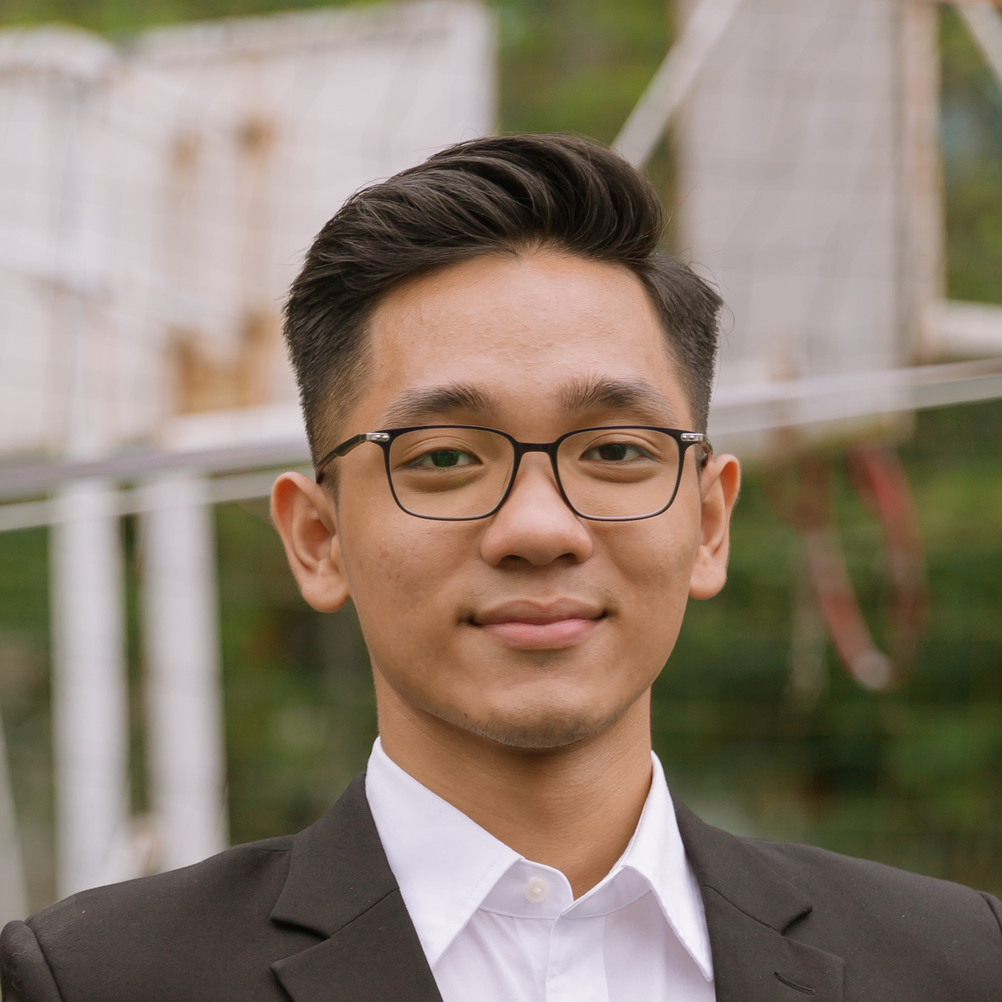
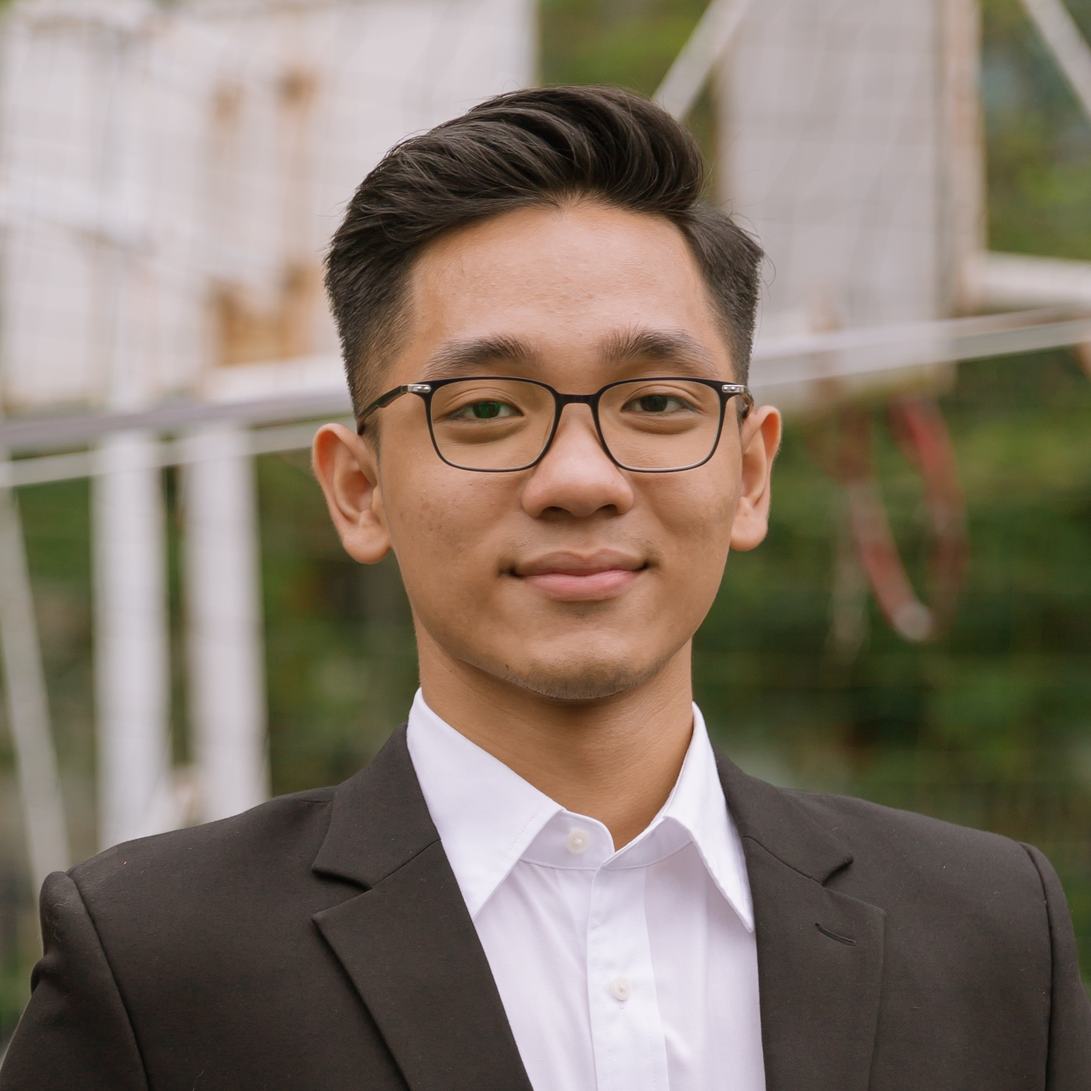
Major update for About section

diff --git a/portfolio-react/src/components/Hero.jsx b/portfolio-react/src/components/Hero.jsx
@@ -5,95 +5,161 @@ const SOCIAL_ICONS = {
   linkedin: FaLinkedin,
 }
 
+function Tagline({ text }) {
+  const parts = text.split(/\s*·\s*/)
+  return (
+    <>
+      {parts.map((part, i) => (
+        <span key={`${i}-${part}`}>
+          {i > 0 ? (
+            <span className="mx-1.5 text-cyan-400" aria-hidden>
+              ·
+            </span>
+          ) : null}
+          <span>{part}</span>
+        </span>
+      ))}
+    </>
+  )
+}
+
+/** `**like this**` → emphasized spans; outside stays muted. */
+function RichBioLine({ text, emphasisClass }) {
+  const parts = text.split(/(\*\*[^*]+\*\*)/g)
+  return parts.map((part, i) => {
+    if (part.startsWith('**') && part.endsWith('**')) {
+      const inner = part.slice(2, -2)
+      return (
+        <strong key={i} className={`font-semibold ${emphasisClass}`}>
+          {inner}
+        </strong>
+      )
+    }
+    return (
+      <span key={i} className="text-slate-400">
+        {part}
+      </span>
+    )
+  })
+}
+
 export function Hero({ data }) {
   return (
-    <section id="main" className="relative flex min-h-screen items-center justify-center py-32 overflow-hidden">
+    <section
+      id="main"
+      className="relative flex min-h-screen items-center overflow-hidden py-28 sm:py-32"
+    >
+      {/* Subtle cyan grid */}
+      <div
+        className="pointer-events-none absolute inset-0 opacity-[0.4]"
+        aria-hidden
+        style={{
+          backgroundImage: `
+            linear-gradient(rgba(34, 211, 238, 0.07) 1px, transparent 1px),
+            linear-gradient(90deg, rgba(34, 211, 238, 0.07) 1px, transparent 1px)
+          `,
+          backgroundSize: '48px 48px',
+        }}
+      />
 
-      {/* ── Floating background ── */}
+      {/* Soft orbs (cyan / teal — site theme) */}
       <div className="pointer-events-none absolute inset-0">
-        {/* Gradient orbs */}
         <div
-          className="absolute -left-32 -top-32 h-[420px] w-[420px] rounded-full bg-cyan-600/20 blur-3xl animate-float-orb"
-          style={{ animationDuration: '11s' }}
+          className="absolute -left-32 -top-32 h-[380px] w-[380px] rounded-full bg-cyan-500/15 blur-3xl animate-float-orb"
+          style={{ animationDuration: '12s' }}
         />
         <div
-          className="absolute -bottom-24 -right-24 h-[380px] w-[380px] rounded-full bg-teal-600/20 blur-3xl animate-float-orb"
-          style={{ animationDuration: '14s', animationDelay: '3s' }}
+          className="absolute -bottom-32 -right-24 h-[360px] w-[360px] rounded-full bg-teal-600/12 blur-3xl animate-float-orb"
+          style={{ animationDuration: '15s', animationDelay: '2s' }}
         />
-        <div
-          className="absolute left-1/2 top-1/3 h-[280px] w-[280px] -translate-x-1/2 rounded-full bg-cyan-700/15 blur-3xl animate-float-orb"
-          style={{ animationDuration: '9s', animationDelay: '1.5s' }}
-        />
-
-        {/* Floating dots */}
-        {[
-          { top: '12%',  left: '8%',  size: 3, dur: '5s',   delay: '0s'   },
-          { top: '25%',  left: '80%', size: 4, dur: '7s',   delay: '1.2s' },
-          { top: '60%',  left: '15%', size: 2, dur: '6s',   delay: '0.6s' },
-          { top: '75%',  left: '70%', size: 3, dur: '8s',   delay: '2s'   },
-          { top: '45%',  left: '88%', size: 2, dur: '5.5s', delay: '0.3s' },
-          { top: '85%',  left: '35%', size: 4, dur: '7.5s', delay: '1.8s' },
-          { top: '18%',  left: '55%', size: 2, dur: '6.5s', delay: '0.9s' },
-          { top: '55%',  left: '45%', size: 3, dur: '9s',   delay: '2.4s' },
-        ].map((dot, i) => (
-          <div
-            key={i}
-            className="absolute rounded-full bg-cyan-300/40 animate-float-dot"
-            style={{
-              top: dot.top,
-              left: dot.left,
-              width: dot.size,
-              height: dot.size,
-              animationDuration: dot.dur,
-              animationDelay: dot.delay,
-            }}
-          />
-        ))}
       </div>
-      <div className="relative z-10 flex flex-col items-center gap-8 px-4 text-center">
-        <div className="h-40 w-40 overflow-hidden rounded-full border-4 border-cyan-400/40 shadow-2xl shadow-cyan-900/30">
-          <img src={data.photoUrl} alt={data.name} className="h-full w-full object-cover" />
-        </div>
 
-        <div>
-          <h1 className="text-4xl font-bold leading-tight text-white sm:text-5xl">
-            {data.title}
-          </h1>
-          <p className="mt-4 max-w-xl text-base text-slate-300">{data.subtitle}</p>
-        </div>
+      <div className="relative z-10 mx-auto w-full max-w-6xl px-4 sm:px-6 lg:px-8">
+        <div className="grid items-start gap-16 lg:grid-cols-[auto_1fr] lg:gap-38">
+          <div className="mx-auto mt-10 shrink-0 sm:mt-12 lg:mx-0 lg:mt-14 lg:order-1">
+            <div className="h-36 w-36 overflow-hidden rounded-full border-[3px] border-cyan-400/35 bg-white/5 shadow-lg shadow-cyan-900/25 sm:h-40 sm:w-40">
+              <img
+                src={data.photoUrl}
+                alt={data.name}
+                className="h-full w-full object-cover object-top"
+              />
+            </div>
+          </div>
 
-        <div className="flex flex-wrap justify-center gap-4">
-          {data.actions.map((action) => (
-            <a
-              key={action.label}
-              href={action.href}
-              className={`inline-flex items-center justify-center rounded-full border px-8 py-3 text-sm font-semibold transition ${
-                action.style === 'outline'
-                  ? 'border-white/40 bg-transparent text-white hover:bg-white/10'
-                  : 'border-cyan-400 bg-cyan-400 text-black hover:bg-cyan-300'
-              }`}
-            >
-              {action.label}
-            </a>
-          ))}
-        </div>
+          <div className="text-left lg:order-2 lg:pl-10">
+            <p className="flex flex-wrap items-center gap-2 text-sm font-medium lowercase tracking-wide text-slate-500">
+              <span
+                className="h-1.5 w-1.5 shrink-0 rounded-full bg-cyan-400 shadow-[0_0_10px_rgba(34,211,238,0.7)] animate-hero-tag-blink"
+                aria-hidden
+              />
+              <Tagline text={data.tagline} />
+            </p>
 
-        <div className="flex gap-5">
-          {data.socials.map((social) => {
-            const Icon = SOCIAL_ICONS[social.icon]
-            return (
-              <a
-                key={social.label}
-                href={social.href}
-                target="_blank"
-                rel="noreferrer"
-                aria-label={social.label}
-                className="flex h-10 w-10 items-center justify-center rounded-full border border-white/20 text-slate-300 transition hover:border-cyan-400/60 hover:text-cyan-400"
-              >
-                <Icon className="h-5 w-5" />
-              </a>
-            )
-          })}
+            <h1 className="mt-6 text-4xl font-bold uppercase leading-[0.95] tracking-tight sm:text-5xl lg:text-6xl">
+              <span className="text-white">{data.headlinePrimary}</span>{' '}
+              <span className="text-cyan-400">{data.headlineAccent}</span>
+            </h1>
+
+            <div className="mt-8 max-w-xl space-y-4 text-base leading-relaxed sm:text-lg">
+              <p>
+                <RichBioLine text={data.bioParagraph1} emphasisClass="text-white" />
+              </p>
+              <p>
+                <RichBioLine text={data.bioParagraph2} emphasisClass="text-cyan-400" />
+              </p>
+            </div>
+
+            <div className="mt-10 flex flex-wrap gap-4">
+              {data.actions.map((action) => (
+                <a
+                  key={action.label}
+                  href={action.href}
+                  target={action.openInNewTab ? '_blank' : undefined}
+                  rel={action.openInNewTab ? 'noreferrer' : undefined}
+                  className={`inline-flex items-center justify-center rounded-full border px-8 py-3 text-sm font-semibold transition ${
+                    action.style === 'primary'
+                      ? 'border-cyan-400 bg-cyan-400 text-black hover:bg-cyan-300'
+                      : 'border-white/40 bg-transparent text-white hover:bg-white/10'
+                  }`}
+                >
+                  {action.label}
+                </a>
+              ))}
+            </div>
+
+            <div className="mt-8 flex items-center gap-2">
+              {data.socials.map((social) => {
+                const Icon = SOCIAL_ICONS[social.icon]
+                return (
+                  <a
+                    key={social.label}
+                    href={social.href}
+                    target="_blank"
+                    rel="noreferrer"
+                    aria-label={social.label}
+                    className="flex h-10 w-10 shrink-0 items-center justify-center rounded-full border border-white/20 text-slate-300 transition hover:border-cyan-400/60 hover:text-cyan-400"
+                  >
+                    {Icon ? (
+                      <Icon className="h-5 w-5" />
+                    ) : (
+                      <span className="text-[10px] font-bold leading-none tracking-tight">CV</span>
+                    )}
+                  </a>
+                )
+              })}
+            </div>
+
+            <div className="mt-5 grid max-w-md grid-cols-3 gap-1 border-t border-white/10 pt-4">
+              {data.stats.map((s) => (
+                <div key={s.label}>
+                  <p className="text-base font-bold tabular-nums text-white sm:text-lg">{s.value}</p>
+                  <p className="mt-0.5 text-[9px] font-semibold uppercase tracking-wider text-slate-500 sm:text-[10px]">
+                    {s.label}
+                  </p>
+                </div>
+              ))}
+            </div>
+          </div>
         </div>
       </div>
     </section>

diff --git a/portfolio-react/src/data/mockData.js b/portfolio-react/src/data/mockData.js
@@ -1,4 +1,5 @@
 import profilePhotoUrl from '../assets/profile pic.jpeg'
+import cvPdf from '../assets/HuyDucVu.pdf'
 
 export const mockData = {
   nav: {
@@ -16,9 +17,18 @@ export const mockData = {
   hero: {
     photoUrl: profilePhotoUrl,
     name: 'Huy Duc Vu',
-    title: 'Data Scientist & Analyst',
-    subtitle:
-      'Building intelligent systems, data pipelines, and AI-driven solutions.',
+    tagline: 'data scientist · data analyst · sydney, au',
+    headlinePrimary: 'JUSTIN',
+    headlineAccent: 'VU',
+    bioParagraph1:
+      'I build things that learn. **End-to-end ML pipelines, RAG systems, and cloud data architectures** — designed to ship, not just prototype.',
+    bioParagraph2:
+      '**135% workflow efficiency gains. 120% social reach growth.** Not estimates but deliverable results.',
+    stats: [
+      { value: '2+ yrs', label: 'Experience' },
+      { value: '6.7/7', label: "Master's GPA" },
+      { value: '87/100', label: "Bachelor's WAM" },
+    ],
     actions: [
       { label: 'View Projects', href: '#projects', style: 'primary' },
       { label: 'Get in Touch', href: '#contact', style: 'outline' },
@@ -26,11 +36,12 @@ export const mockData = {
     socials: [
       { label: 'LinkedIn', href: 'https://linkedin.com/in/huyducvu', icon: 'linkedin' },
       { label: 'GitHub', href: 'https://github.com/huyducv', icon: 'github' },
+      { label: 'CV', href: cvPdf, icon: 'cv', openInNewTab: true },
     ],
   },
   experience: {
-    titlePrefix: 'My career &',
-    titleAccent: 'experience',
+    titlePrefix: 'My Career &',
+    titleAccent: 'Experience',
     items: [
       {
         title: 'Business Analyst',

diff --git a/portfolio-react/dist/index.html b/portfolio-react/dist/index.html
@@ -5,8 +5,8 @@
     <link rel="icon" type="image/svg+xml" href="/vite.svg" />
     <meta name="viewport" content="width=device-width, initial-scale=1.0" />
     <title>Portfolio</title>
-    <script type="module" crossorigin src="/assets/index-Bjd4SAMw.js"></script>
-    <link rel="stylesheet" crossorigin href="/assets/index-DW0UEBmS.css">
+    <script type="module" crossorigin src="/assets/index-BF4E9P4q.js"></script>
+    <link rel="stylesheet" crossorigin href="/assets/index-ejN0xalM.css">
   </head>
   <body>
     <div id="root"></div>

diff --git a/portfolio-react/src/index.css b/portfolio-react/src/index.css
@@ -17,6 +17,22 @@ html {
   html {
     scroll-behavior: smooth;
   }
+
+  .animate-hero-tag-blink {
+    animation: hero-tag-blink 1.2s ease-in-out infinite;
+  }
+}
+
+@keyframes hero-tag-blink {
+  0%,
+  100% {
+    opacity: 1;
+    box-shadow: 0 0 12px rgba(34, 211, 238, 0.75);
+  }
+  50% {
+    opacity: 0.2;
+    box-shadow: 0 0 4px rgba(34, 211, 238, 0.35);
+  }
 }
 
 html,
